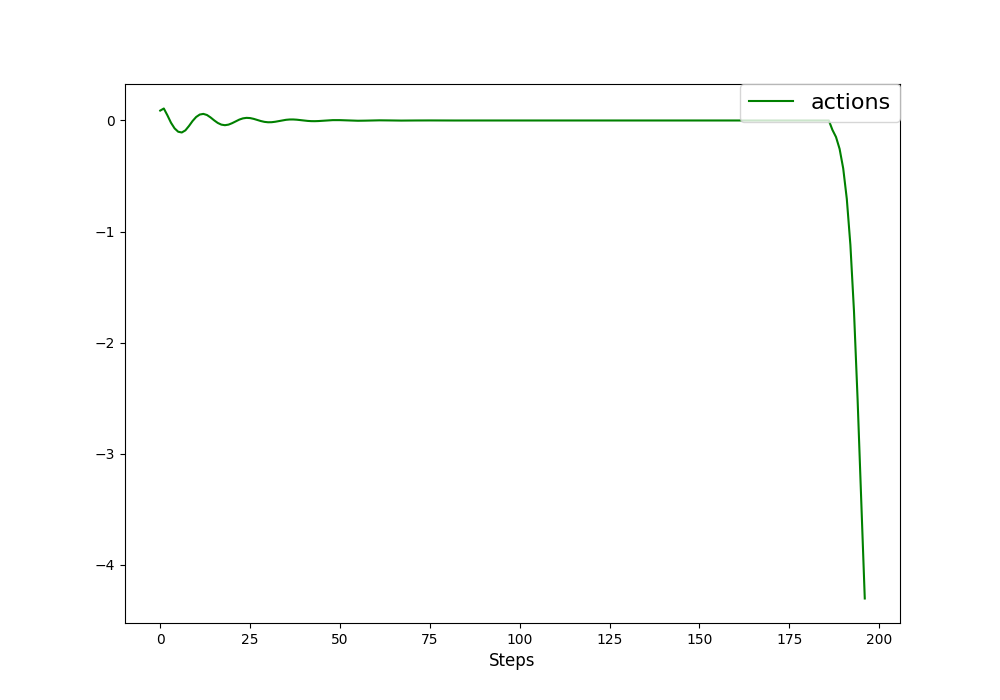
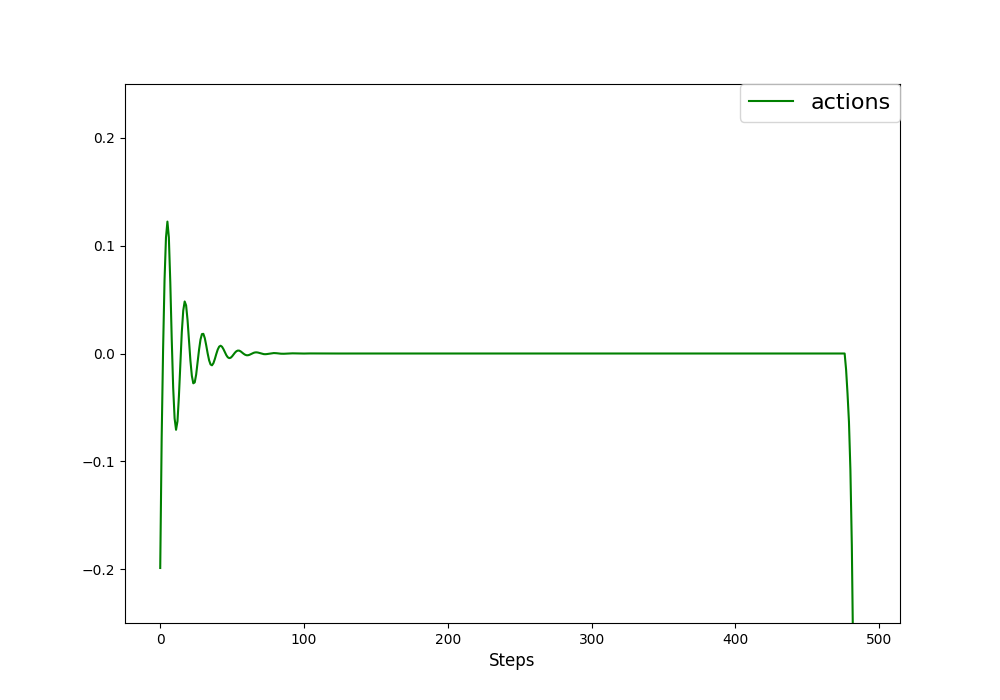
new

diff --git a/double/PID.py b/double/PID.py
@@ -14,8 +14,8 @@ from sklearn.pipeline import make_pipeline
 #kd=[-0.5,-0.6]
 #kp=[-5.69332015e-01 ,-3.90236132e-02 ,-5.14855973e-01]
 #kd=[-3.07251717e+00 ,-2.98465176e-03 ,-7.36120966e-01]
-kp=[-0.5,0,-2.9]
-kd=[-0.5,0,-0.6]
+kp=[-0.5,-0.04,-2.9]
+kd=[-0.5,-0.003,-0.6]
 
 
 # polynomial controller
@@ -55,14 +55,44 @@ while not terminal:
     actions_record.append(actions_predict)
 print(episode_reward)
 
+# x=range(len(theta1_record))
+# fig=plt.figure(figsize=(10,7))
+# plt.plot(x,theta1_record,label='Lower Angle',color='black')
+# plt.plot(x,theta1_velocity_record,label='Lower Angular Velocity',color='blue',alpha=0.5)
+# plt.plot(x,theta1_integral_record,label='Integral',color='magenta',alpha=0.5)
+# plt.xlabel('Steps', fontsize='large')
+# plt.legend(loc='upper right',ncol=1, borderaxespad=0,prop={'size': 16})
+# plt.ylim(-0.5,0.5)
+# #plt.savefig('double_PID.png')
+# plt.show()
+
+# fig=plt.figure(figsize=(10,7))
+# plt.plot(x,theta2_record,label='Upper Angle',color='black')
+# plt.plot(x,theta2_velocity_record,label='Upper Angular Velocity',color='blue',alpha=0.5)
+# plt.plot(x,theta2_integral_record,label='Integral',color='magenta',alpha=0.5)
+# plt.xlabel('Steps', fontsize='large')
+# plt.legend(loc='upper right',ncol=1, borderaxespad=0,prop={'size': 16})
+# plt.ylim(-0.5,0.5)
+# plt.show()
+
+# fig=plt.figure(figsize=(10,7))
+# plt.plot(x,actions_record,label='actions',color='green')
+# plt.xlabel('Steps', fontsize='large')
+# plt.legend(loc='upper right',ncol=1, borderaxespad=0,prop={'size': 16})
+# plt.ylim(-.25,.25)
+# plt.show()
+
+
+
 x=range(len(theta1_record))
 fig=plt.figure(figsize=(10,7))
 plt.plot(x,theta1_record,label='Lower Angle',color='black')
 plt.plot(x,theta1_velocity_record,label='Lower Angular Velocity',color='blue',alpha=0.5)
 plt.plot(x,theta1_integral_record,label='Integral',color='magenta',alpha=0.5)
+plt.plot(x,actions_record,label='PID actions',color='green')
 plt.xlabel('Steps', fontsize='large')
 plt.legend(loc='upper right',ncol=1, borderaxespad=0,prop={'size': 16})
-#plt.ylim(-0.5,0.5)
+plt.ylim(-0.5,0.5)
 #plt.savefig('double_PID.png')
 plt.show()
 
@@ -70,18 +100,11 @@ fig=plt.figure(figsize=(10,7))
 plt.plot(x,theta2_record,label='Upper Angle',color='black')
 plt.plot(x,theta2_velocity_record,label='Upper Angular Velocity',color='blue',alpha=0.5)
 plt.plot(x,theta2_integral_record,label='Integral',color='magenta',alpha=0.5)
+plt.plot(x,actions_record,label='PID actions',color='green')
 plt.xlabel('Steps', fontsize='large')
 plt.legend(loc='upper right',ncol=1, borderaxespad=0,prop={'size': 16})
-#plt.ylim(-0.5,0.5)
+plt.ylim(-0.5,0.5)
 plt.show()
-
-fig=plt.figure(figsize=(10,7))
-plt.plot(x,actions_record,label='actions',color='green')
-plt.xlabel('Steps', fontsize='large')
-plt.legend(loc='upper right',ncol=1, borderaxespad=0,prop={'size': 16})
-#plt.ylim(-0.5,0.5)
-plt.show()
-
 
 
 

diff --git a/double/RL.py b/double/RL.py
@@ -50,7 +50,7 @@ length=len(theta1_record)
 x=range(length)
 plt.plot(x,theta1_record,label='Lower Angle',color='black')
 plt.plot(x,theta1_velocity_record,label='Lower Angular Velocity',color='blue',alpha=0.5)
-plt.plot(x,theta1_integral_record,label='Integrals',color='magenta',alpha=0.5)
+plt.plot(x,theta1_integral_record,label='Integrals',color='magenta')
 
 plt.xlabel('Steps', fontsize='large')
 plt.legend(loc='upper right',ncol=1, borderaxespad=0,prop={'size': 12})
@@ -60,7 +60,7 @@ plt.show()
 
 plt.plot(x,theta2_record,label='Upper Angle',color='black')
 plt.plot(x,theta2_velocity_record,label='Upper Angular Velocity',color='blue',alpha=0.5)
-plt.plot(x,theta2_integral_record,label='Integrals',color='magenta',alpha=0.5)
+plt.plot(x,theta2_integral_record,label='Integrals',color='magenta')
 
 plt.xlabel('Steps', fontsize='large')
 plt.legend(loc='upper right',ncol=1, borderaxespad=0,prop={'size': 12})
@@ -69,7 +69,7 @@ plt.legend(loc='upper right',ncol=1, borderaxespad=0,prop={'size': 12})
 plt.show()
 
 
-plt.plot(x,actions_record,label='actions',color='blue')
+plt.plot(x,actions_record,label='RL actions',color='green',alpha=0.3)
 plt.xlabel('Steps', fontsize='large')
 plt.legend(loc='upper right',ncol=1, borderaxespad=0,prop={'size': 12})
 #plt.ylim(-0.1,0.1)
